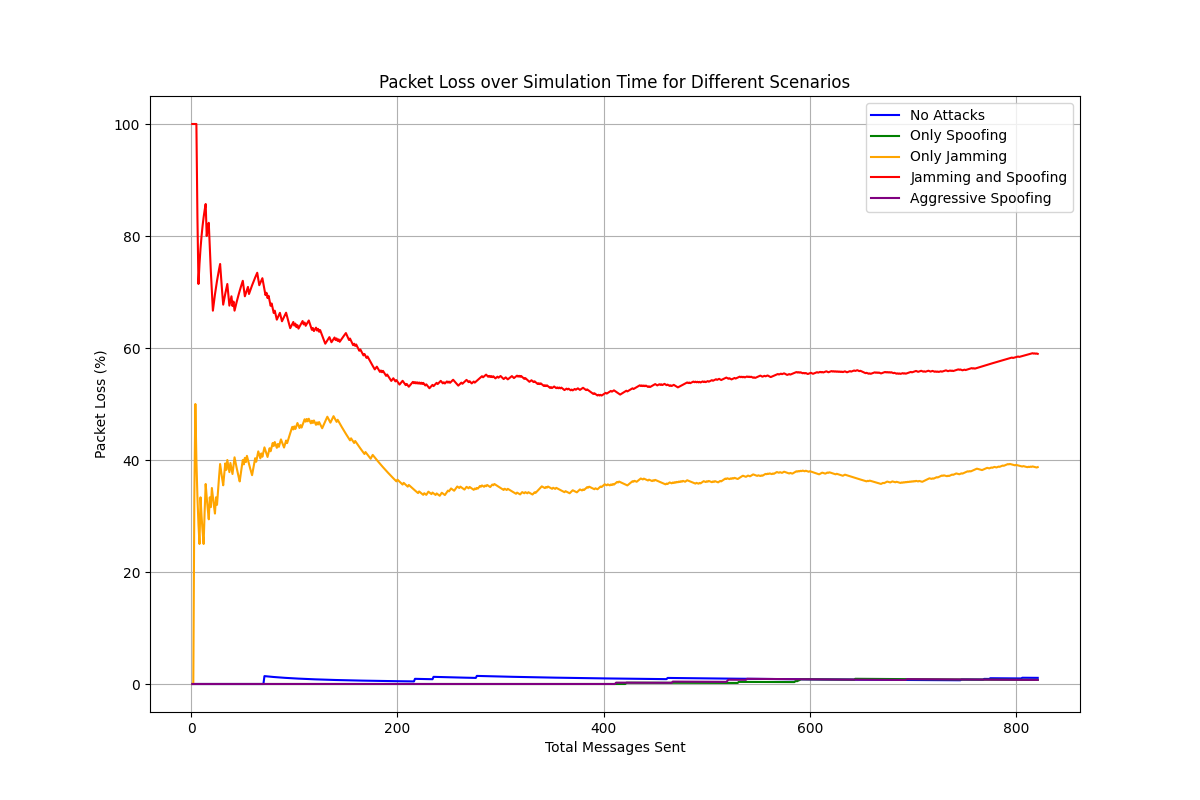
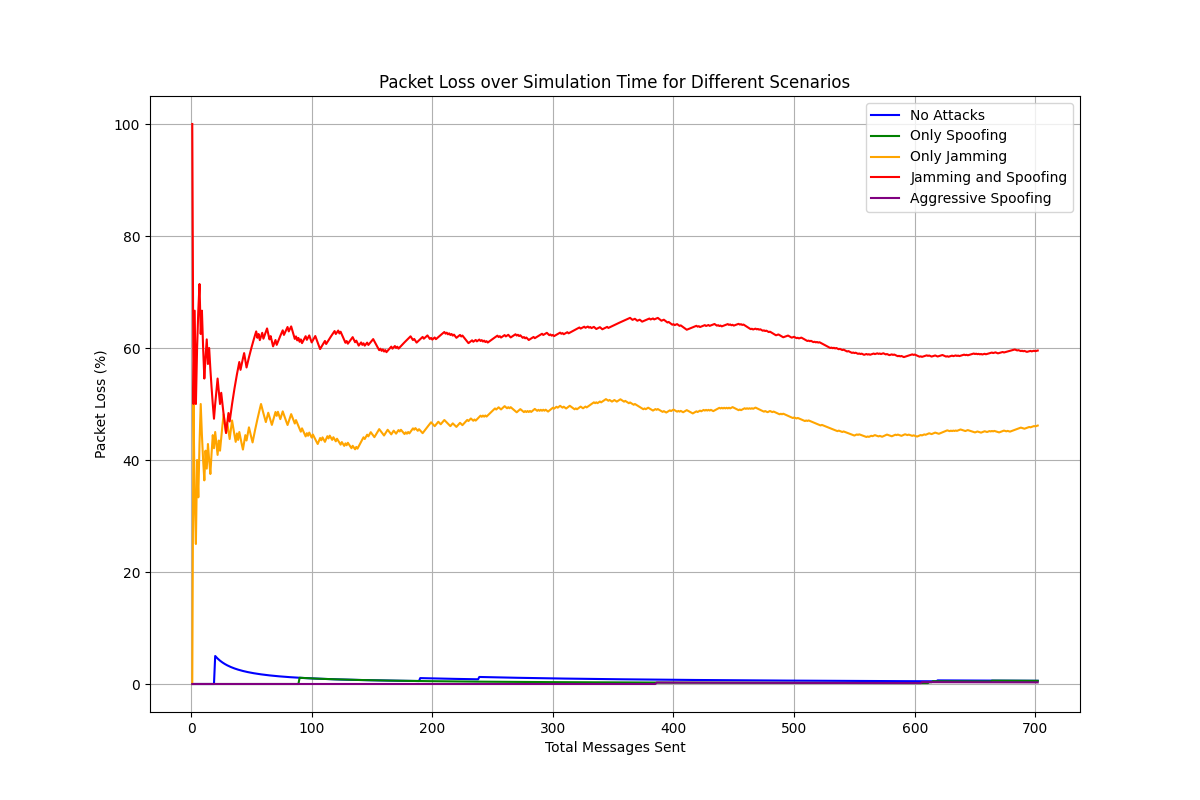
Code Organization

diff --git a/n_scen_adsb_attack.py b/n_scen_adsb_attack.py
@@ -50,10 +50,10 @@ drones = [
 channel = ADSBChannel()
 
 # jammer = Jammer(jamming_type="CW", jamming_power_dbm=45, center_freq=1090e6, offset_freq=0.2e6)
-jammer = Jammer(jamming_type="PULSE",jamming_power_dbm=45, center_freq=1090e6, pulse_width_us=15.0, pulse_repetition_freq=2000.0)
+# jammer = Jammer(jamming_type="PULSE",jamming_power_dbm=45, center_freq=1090e6, pulse_width_us=15.0, pulse_repetition_freq=2000.0)
 # jammer = Jammer(jamming_type="SWEEP", jamming_power_dbm=25, center_freq=1090e6, sweep_range_hz=1e6, sweep_time_us=100.0)
 # jammer = Jammer(jamming_type="DIRECTIONAL", jamming_power_dbm=45, center_freq=1090e6, position=gcs_pos, beam_width_deg=30.0, antenna_gain_dbi=15.0)
-# jammer = None
+jammer = None
 
 spoofer = Spoofer(spoof_probability=0.7, fake_drone_id="")
 # spoofer = None

diff --git a/n_scen_stat.py b/n_scen_stat.py
@@ -323,7 +323,7 @@ def run_simulation_jammer():
 
 
 # Run simulations for each scenario and collect results
-DEBUG_JAMMER_ONLY = False
+DEBUG_JAMMER_ONLY = True
 
 if DEBUG_JAMMER_ONLY:
     print(f"Running jammer simulation...")
